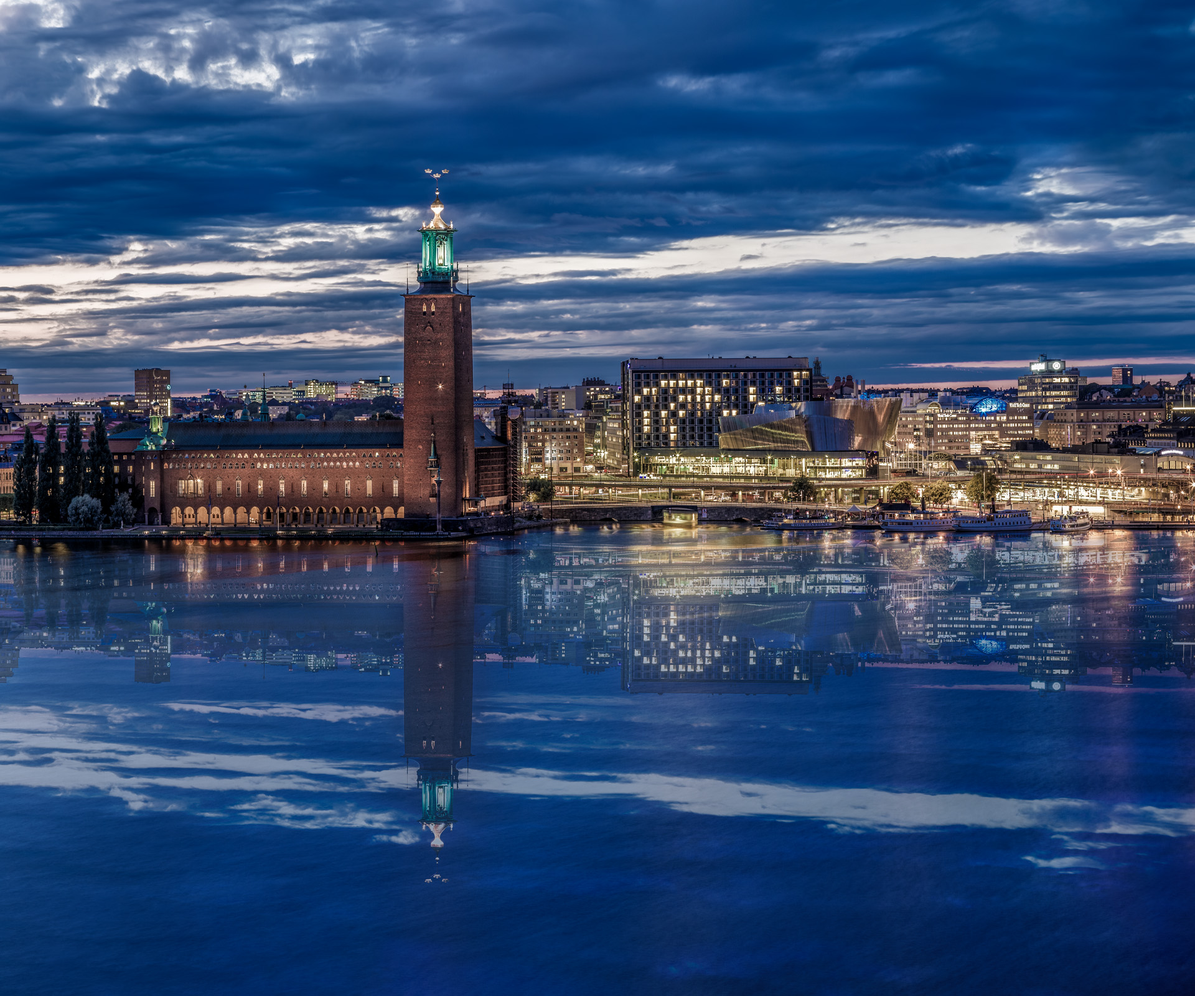
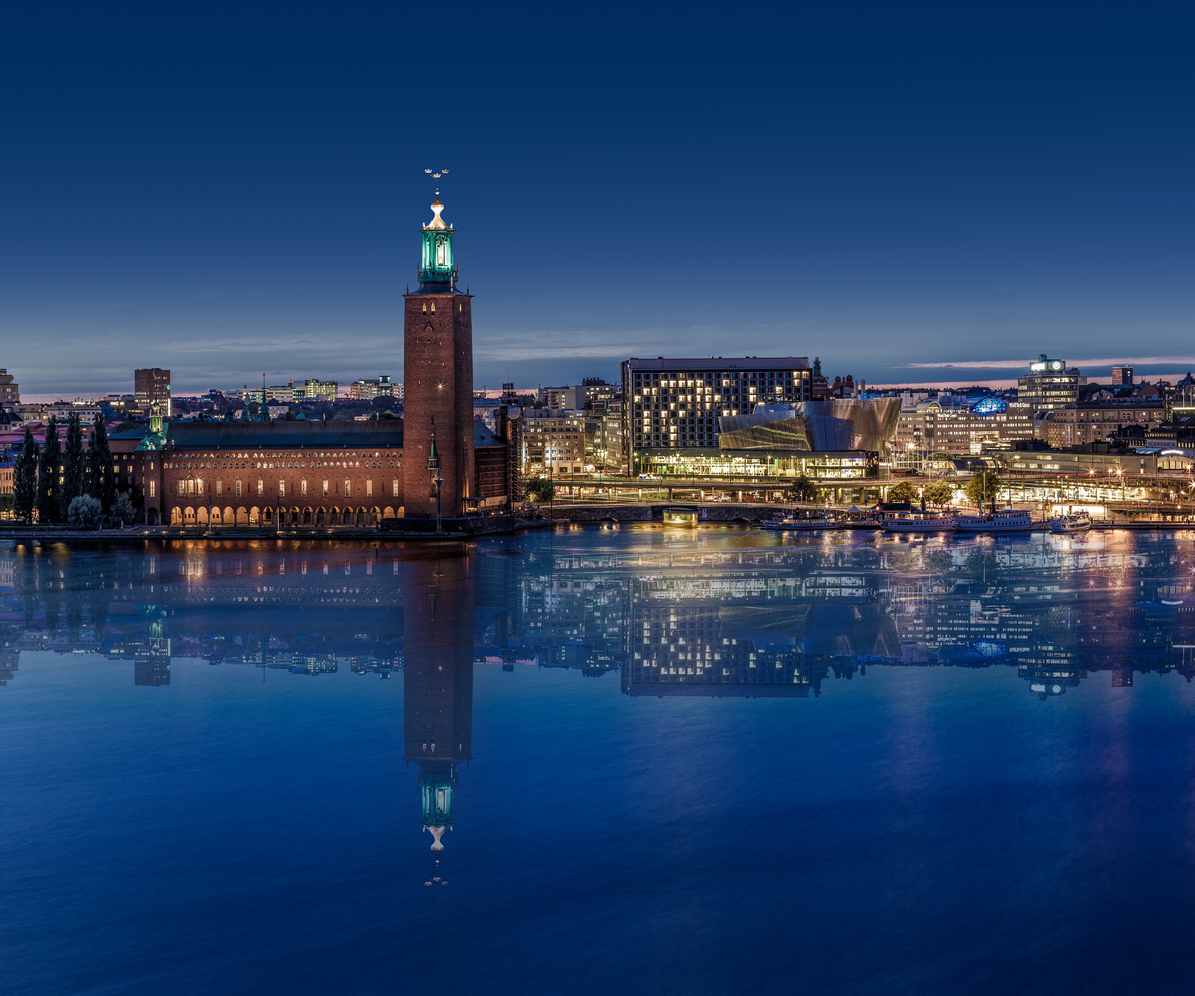
new bg

diff --git a/Definity_MultipurposeOne-MultiPageTemplate/Definity/assets/styles/mystyle.css b/Definity_MultipurposeOne-MultiPageTemplate/Definity/assets/styles/mystyle.css
@@ -84,14 +84,14 @@ radial-gradient(closest-side at 70% 30%,#24252d 0%,#24252d 0%) */
 }
 
 .sm-erickssons-bg {
-  background-image: url("../../assets/images/JohanTöpel/Second/IMG_1279.jpg");
+  background-image: linear-gradient(30deg,#01041b49 0%,#01041b49 100%), url("../../assets/images/JohanTöpel/Second/IMG_1279.jpg");
   background-size: cover;
-  background-position: 50% 0%;
+  background-position: 50% 25%;
   background-attachment: fixed;
 }
 
 .sm-city-bg {
-  background-image: url("../../assets/images/JohanTöpel/Second/IMG_1279Inverted.jpg");
+  background-image: url("../../assets/images/JohanTöpel/Second/IMG_1279.jpg");
   background-size: cover;
   background-position: center;
   background-attachment: fixed;
@@ -119,7 +119,7 @@ radial-gradient(closest-side at 70% 30%,#24252d 0%,#24252d 0%) */
 
 /* ---- 17.1 CTA - City - Link ---- */
 .cta-city-link {
-  background-image: url("../../assets/images/JohanTöpel/Second/IMG_1279Inverted.jpg");
+  background-image: url("../../assets/images/JohanTöpel/Second/IMG_1279.jpg");
   background-size: cover;
   background-position: left;
   background-attachment: fixed;
